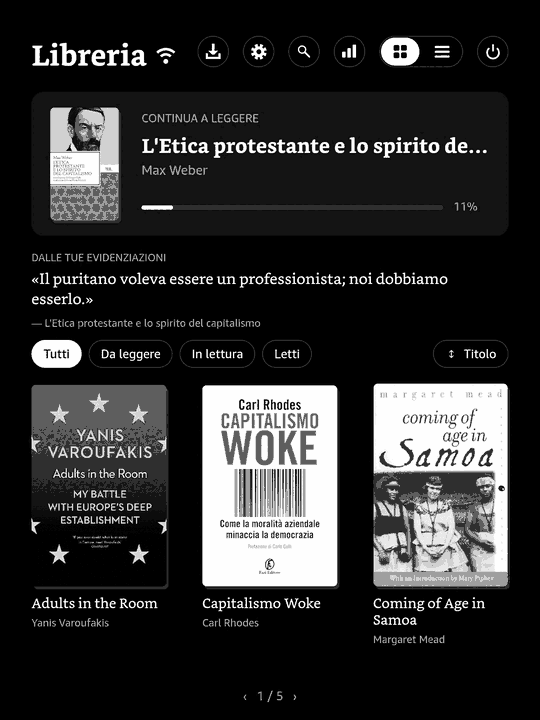
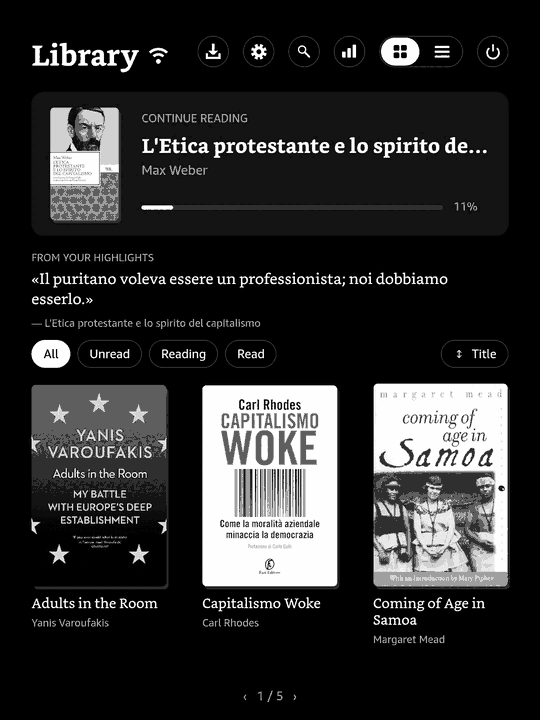
docs: README in English screenshots, new make targets, an interface for free spirits

diff --git a/README.md b/README.md
@@ -28,6 +28,18 @@ The old readers are *décadents*. They justify text the way the herd walks, word
 
 Zarathustra was built against all of that.
 
+### An interface for free spirits
+
+The decadent readers were designed by herd and for the herd: grey toolbars stacked like tax forms, menus three levels deep, settings that hide behind settings, a home screen that is a shop window with your books somewhere behind the glass. They are *infrolliti*, old men's interfaces, softened by years of committee meetings until nothing in them has an edge.
+
+Zarathustra's interface was drawn for the eye and the thumb:
+
+- **One gesture, one place.** Swipe down for light, warmth, Wi-Fi, night mode and suspend. Hold a cover for everything about that book. Tap the page for typography. Nothing is more than one step away.
+- **Drawn for e-ink, not ported to it.** Each element is placed for a 300 dpi greyscale panel: crisp rules, generous margins, and icons drawn pixel by pixel instead of borrowed from a phone. Only the area that changed is refreshed, with the fastest waveform that still looks clean.
+- **Your books first.** The home opens on the book you are reading and a line you underlined, then your library. There are no ads, no "recommended for you", no store.
+- **A keyboard that keeps up.** Only the key you press and the field you type into are redrawn. Hold a letter for its accents. Tap shift for one capital, twice to lock it.
+- **Bilingual.** English and Italian, switched in settings.
+
 ### Typography beyond good and evil
 
 - **Knuth–Plass line breaking**: the whole paragraph is weighed before a single line is set, the way TeX does it. No rivers, no gaping justified lines.
@@ -86,12 +98,14 @@ It cross-compiles to one static `armv7-unknown-linux-musleabihf` binary. A KUAL 
 
 ## Become who you are: install it
 
-You need a **jailbroken Kindle** with KUAL and SSH (KOReader's server on port 2222 works). It has been built for the Paperwhite 5 and the code is written to be portable.
+You need a **jailbroken Kindle** with KUAL. To install over the network you also need SSH (KOReader's server on port 2222 works). It has been built for the Paperwhite 5 and the code is written to be portable.
 
 ```sh
 # the cross toolchain: arm-linux-musleabihf-cross-bin (AUR) for the C dependencies
-make install                     # build and install over SSH (KINDLE_HOST=…)
-make install KINDLE_HOST=        # or over USB, with the Kindle mounted
+make install-ssh                     # build, then install the app and the dictionaries over SSH
+make install-ssh KINDLE_HOST=1.2.3.4 # another address
+make install-usb                     # or onto a Kindle mounted over USB (KINDLE=/path to override)
+make run-ssh BIN=zarathustra-probe   # install, run a binary on the device, show its log
 ```
 
 Put your books in `/mnt/us/library` (by cable, or with the transfer screen), then start Zarathustra from KUAL.
